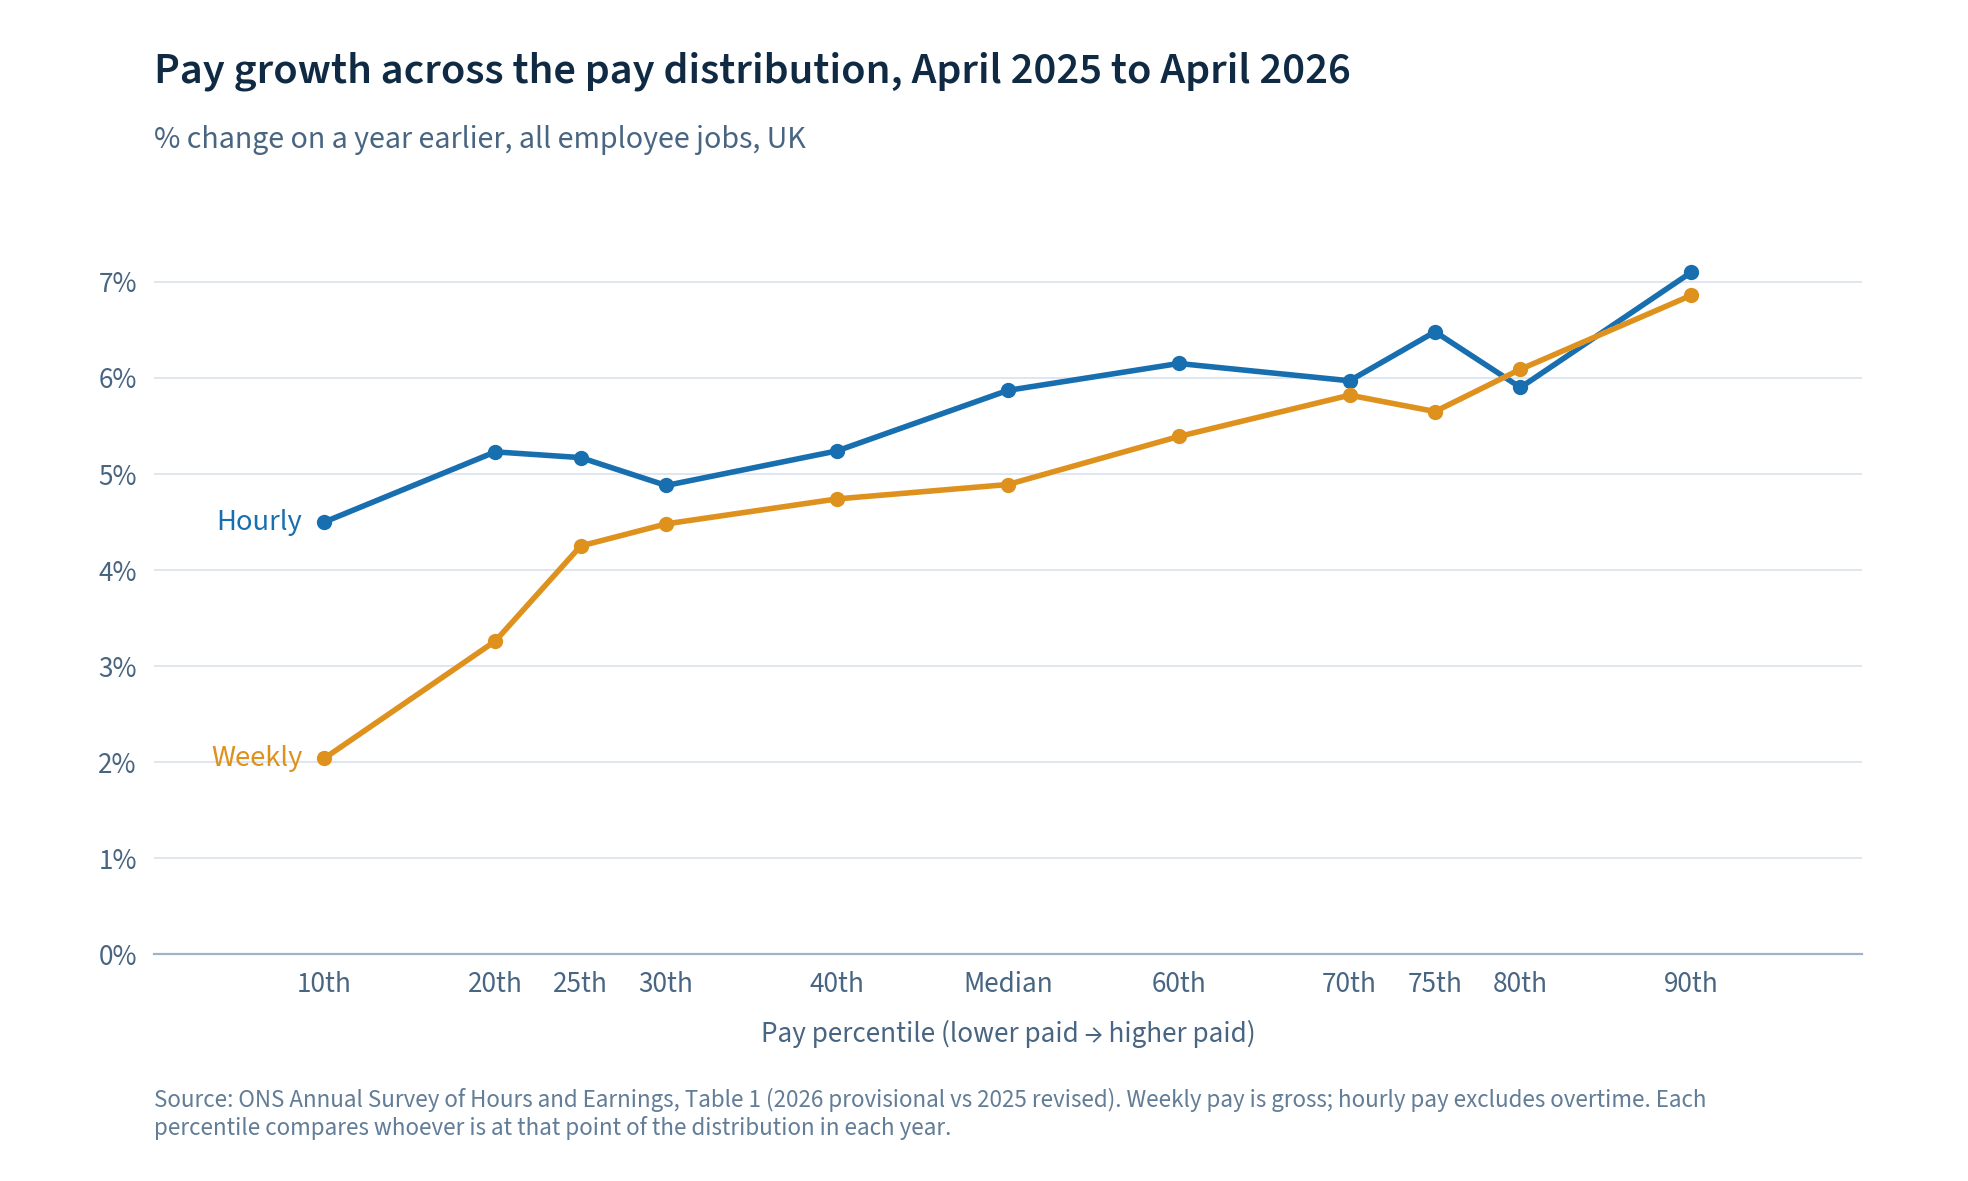
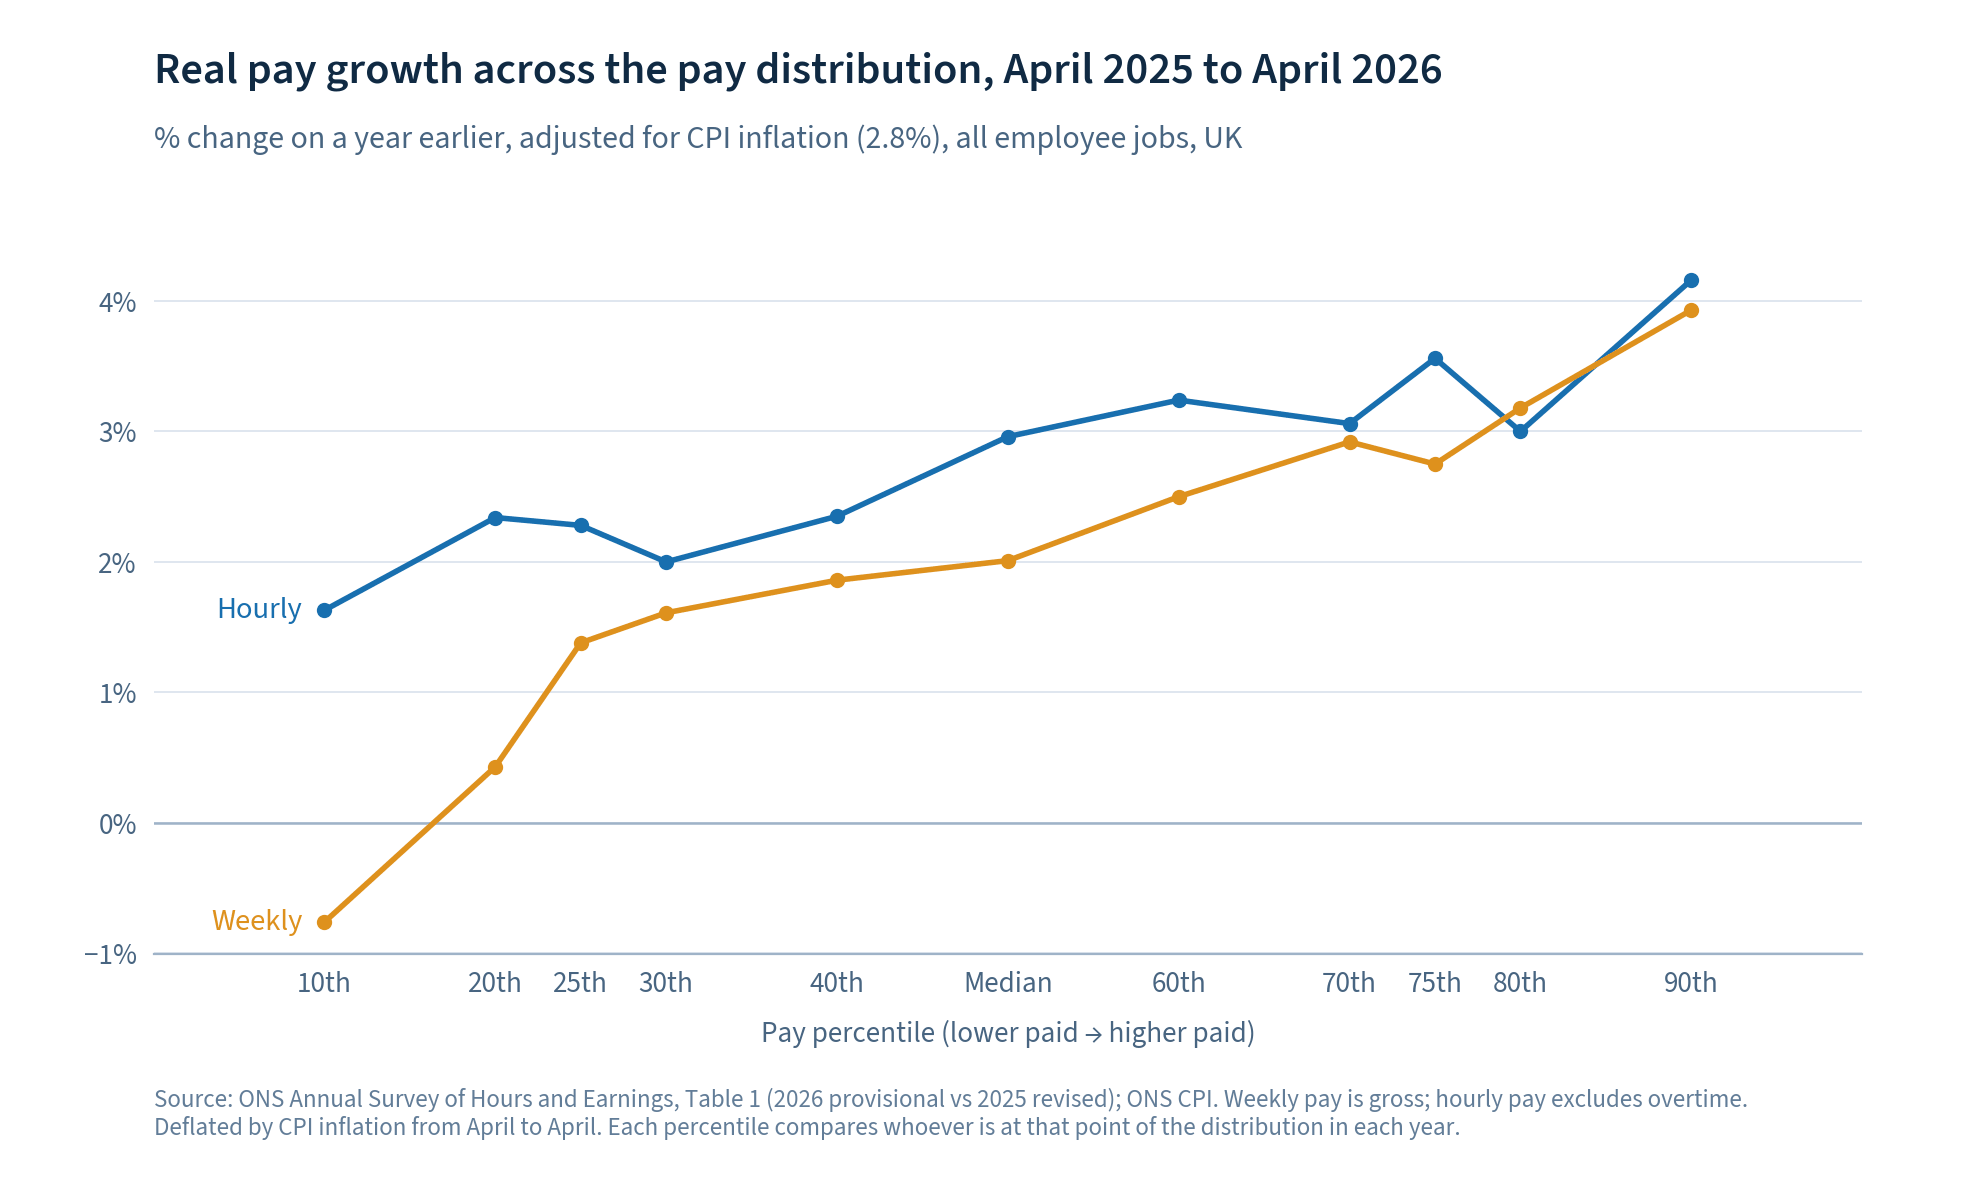
ASHE pay distribution in real terms, and on the dashboard's labour market section
Deflates pay growth at each percentile by CPI inflation April to April.

diff --git a/index.html b/index.html
@@ -86,7 +86,7 @@ const fmt = v => (v < 0 ? "−" : "") + Math.abs(v).toFixed(1);   // real minus 
 const fmtDate = s => new Date(s + "T12:00").toLocaleDateString("en-GB", {day: "numeric", month: "short"});
 
 // Dates to positions on a timeline: '2026-08' -> 2026.625, '2026-Q3' -> 2026.625
-function toX(d) {
+function timeX(d) {
   const y = +d.slice(0, 4);
   if (d.includes("Q")) return y + (+d.slice(-1) - 0.5) / 4;
   return y + (+d.slice(5, 7) - 0.5) / 12;
@@ -122,7 +122,13 @@ function renderBox(box) {
   return wrap;
 }
 
+// Percentile charts (pay distribution) have the percentile itself on the x-axis
+const PCT_TICKS = [10, 20, 25, 30, 40, 50, 60, 70, 75, 80, 90];
+const pctLabel = p => p === 50 ? "Median" : p + "th";
+
 function renderLineChart(canvas, chart) {
+  const pct = chart.type === "percentile";
+  const toX = d => pct ? d : timeX(d);
   const xs = chart.lines.flatMap(l => l.data.map(p => toX(p[0])));
   const datasets = chart.lines.map(l => {
     const sparse = l.kind === "forecast" && l.data.length <= 6;   // few points: show them
@@ -131,7 +137,7 @@ function renderLineChart(canvas, chart) {
       data: l.data.map(p => ({x: toX(p[0]), y: p[1], d: p[0]})),
       borderColor: l.colour, backgroundColor: l.colour,
       borderWidth: 2, borderDash: l.kind === "forecast" ? [6, 4] : [],
-      pointRadius: ctx => (sparse && ctx.dataIndex > 0) ? 3 : 0, pointHoverRadius: 4,
+      pointRadius: ctx => pct ? 3 : (sparse && ctx.dataIndex > 0) ? 3 : 0, pointHoverRadius: 4,
       tension: 0, spanGaps: false,
     };
   });
@@ -144,15 +150,20 @@ function renderLineChart(canvas, chart) {
       plugins: {
         legend: {display: false},
         tooltip: {callbacks: {
-          title: items => niceLabel(items[0].raw.d),
+          title: items => pct ? pctLabel(items[0].raw.d) + " percentile" : niceLabel(items[0].raw.d),
           label: it => ` ${it.dataset.label}: ${fmt(it.raw.y)}`,
         }},
       },
       scales: {
-        x: {type: "linear", min: Math.floor(Math.min(...xs)), max: Math.ceil(Math.max(...xs)),
-            grid: {display: false}, border: {color: "#627D98"},
-            ticks: {stepSize: 1, callback: v => Number.isInteger(v) ? v : ""}},
-        y: {grid: {color: "#D9E2EC"}, border: {display: false},
+        x: pct
+          ? {type: "linear", min: 0, max: 100, grid: {display: false}, border: {color: "#627D98"},
+             afterBuildTicks: axis => { axis.ticks = PCT_TICKS.map(v => ({value: v})); },
+             ticks: {autoSkip: false, maxRotation: 0, callback: v => pctLabel(v)},
+             title: {display: true, text: "Pay percentile (lower paid \u2192 higher paid)", color: "#486581"}}
+          : {type: "linear", min: Math.floor(Math.min(...xs)), max: Math.ceil(Math.max(...xs)),
+             grid: {display: false}, border: {color: "#627D98"},
+             ticks: {stepSize: 1, callback: v => Number.isInteger(v) ? v : ""}},
+        y: {grid: {color: ctx => ctx.tick.value === 0 ? "#9FB3C8" : "#D9E2EC"}, border: {display: false},
             ticks: {callback: v => fmt(v).replace(".0", "")}},
       },
     },

diff --git a/builders/labour-markets/ashe_distribution.py b/builders/labour-markets/ashe_distribution.py
@@ -14,6 +14,10 @@ Two measures, for all employee jobs in the UK:
 - Hourly pay, excluding overtime (Table 1.6a): the ONS's preferred hourly measure;
   the bottom of it is held up by the National Living Wage.
 
+Real pay: nominal growth is deflated by CPI inflation over the same twelve months
+(April to April, ONS series D7BT), so the chart shows growth in what pay can buy:
+    real growth = (1 + nominal growth) / (1 + CPI inflation) - 1
+
 Note: each percentile compares *whoever* is at that point in each year, not the
 same people, and ASHE's April date means it misses anything after the survey week.
 
@@ -35,7 +39,7 @@ sys.path.insert(0, str(REPO))
 
 import openpyxl  # noqa: E402
 
-from ukmacro import charts  # noqa: E402
+from ukmacro import charts, ons  # noqa: E402
 from ukmacro.http import get, get_text  # noqa: E402
 
 PAGE = ("https://www.ons.gov.uk/employmentandlabourmarket/peopleinwork/earningsandworkinghours/"
@@ -86,33 +90,46 @@ def draw(chart: dict, path: Path) -> None:
     ax.set_xticks([10, 20, 25, 30, 40, 50, 60, 70, 75, 80, 90])
     ax.set_xticklabels(["10th", "20th", "25th", "30th", "40th", "Median", "60th", "70th", "75th", "80th", "90th"],
                        fontsize=10.5, color=charts.TEXT_2)
-    ax.set_ylim(bottom=0)
-    ax.yaxis.set_major_formatter(lambda v, _: f"{v:.0f}%")
+    ax.axhline(0, color=charts.BASELINE, linewidth=0.9, zorder=1)  # zero line: real pay can fall
+    ax.yaxis.set_major_formatter(lambda v, _: f"{v:.0f}%".replace("-", "\u2212"))  # real minus sign
     ax.tick_params(axis="y", labelsize=10.5, labelcolor=charts.TEXT_2)
     ax.set_xlabel("Pay percentile (lower paid → higher paid)", fontsize=10.5, color=charts.TEXT_2, labelpad=8)
     charts._save(fig, path)
 
 
+def cpi_inflation(year: int) -> float:
+    """CPI inflation from April of the previous year to April of `year`, in %."""
+    cpi = dict(ons.fetch("D7BT", "MM23", "M")["obs"])  # CPI all-items index
+    return (cpi[f"{year}-04"] / cpi[f"{year - 1}-04"] - 1) * 100
+
+
 if __name__ == "__main__":
     year, new, old = latest_pair()
+    inflation = cpi_inflation(year)
     data = {}
     for key, table in TABLES.items():
         now, before = percentiles(new, table), percentiles(old, table)
         for p in now:
             if p in before:
-                data.setdefault(p, {"percentile": p})[key] = round((now[p] / before[p] - 1) * 100, 2)
-                data[p][f"{key}_{year}"], data[p][f"{key}_{year - 1}"] = now[p], before[p]
+                nominal = (now[p] / before[p] - 1) * 100
+                row = data.setdefault(p, {"percentile": p})
+                row[f"{key}_nominal"] = round(nominal, 2)
+                row[key] = round(((1 + nominal / 100) / (1 + inflation / 100) - 1) * 100, 2)  # real
+                row[f"{key}_{year}"], row[f"{key}_{year - 1}"] = now[p], before[p]
     chart = {
         "slug": SLUG, "category": "labour-markets",
-        "title": f"Pay growth across the pay distribution, April {year - 1} to April {year}",
-        "units": "% change on a year earlier, all employee jobs, UK",
-        "source": f"ONS Annual Survey of Hours and Earnings, Table 1 ({year} provisional vs {year - 1} revised)",
-        "note": "Weekly pay is gross; hourly pay excludes overtime. Each percentile compares whoever is at that point of the distribution in each year.",
+        "title": f"Real pay growth across the pay distribution, April {year - 1} to April {year}",
+        "units": f"% change on a year earlier, adjusted for CPI inflation ({inflation:.1f}%), all employee jobs, UK",
+        "source": f"ONS Annual Survey of Hours and Earnings, Table 1 ({year} provisional vs {year - 1} revised); ONS CPI",
+        "note": ("Weekly pay is gross; hourly pay excludes overtime. Deflated by CPI inflation from April to April. "
+                 "Each percentile compares whoever is at that point of the distribution in each year."),
+        "cpi_inflation": round(inflation, 2),
         "series": [{"key": "hourly", "label": "Hourly"}, {"key": "weekly", "label": "Weekly"}],
         "data": list(data.values()),
     }
     out = REPO / "data" / "labour-markets" / f"{SLUG}.json"
     out.write_text(json.dumps(chart, indent=1) + "\n")
     draw(chart, REPO / "img" / "labour-markets" / f"{SLUG}.png")
+    print(f"CPI inflation April {year - 1} to April {year}: {inflation:.2f}%")
     for row in chart["data"]:
-        print(row["percentile"], row["hourly"], row["weekly"])
+        print(row["percentile"], "hourly", row["hourly"], "weekly", row["weekly"])

diff --git a/builders/dashboard/build.py b/builders/dashboard/build.py
@@ -323,6 +323,11 @@ def labour_section(fc, sources):
         ],
     }
     note = "Rolling three-month averages, dated by the final month; quarterly forecasts sit at the quarter's last month. LFS estimates are official statistics in development."
+    # Real pay growth by pay percentile from ASHE (annual; builders/labour-markets/ashe_distribution.py)
+    ashe = chart_file("labour-markets", "ashe-pay-distribution")
+    ashe_lines = [line(s["label"], [[r["percentile"], r[s["key"]]] for r in ashe["data"] if r.get(s["key"]) is not None],
+                       colour, "outturn")
+                  for s, colour in zip(ashe["series"], [OUTTURN, "#DE911D"])]
     return {
         "id": "labour", "title": "Labour market", "box": box,
         "charts": [
@@ -332,6 +337,8 @@ def labour_section(fc, sources):
             {"title": "Employment rate, aged 16+", "units": "% of people aged 16+", "freq": "M",
              "lines": [line("ONS outturn", emp, OUTTURN, "outturn")] + e_lines,
              "note": note + " Only the OBR forecasts the employment rate.", "source": "ONS Labour Force Survey; OBR"},
+            {"title": ashe["title"], "units": ashe["units"], "type": "percentile", "lines": ashe_lines,
+             "note": ashe["note"], "source": ashe["source"]},
         ],
     }
 
